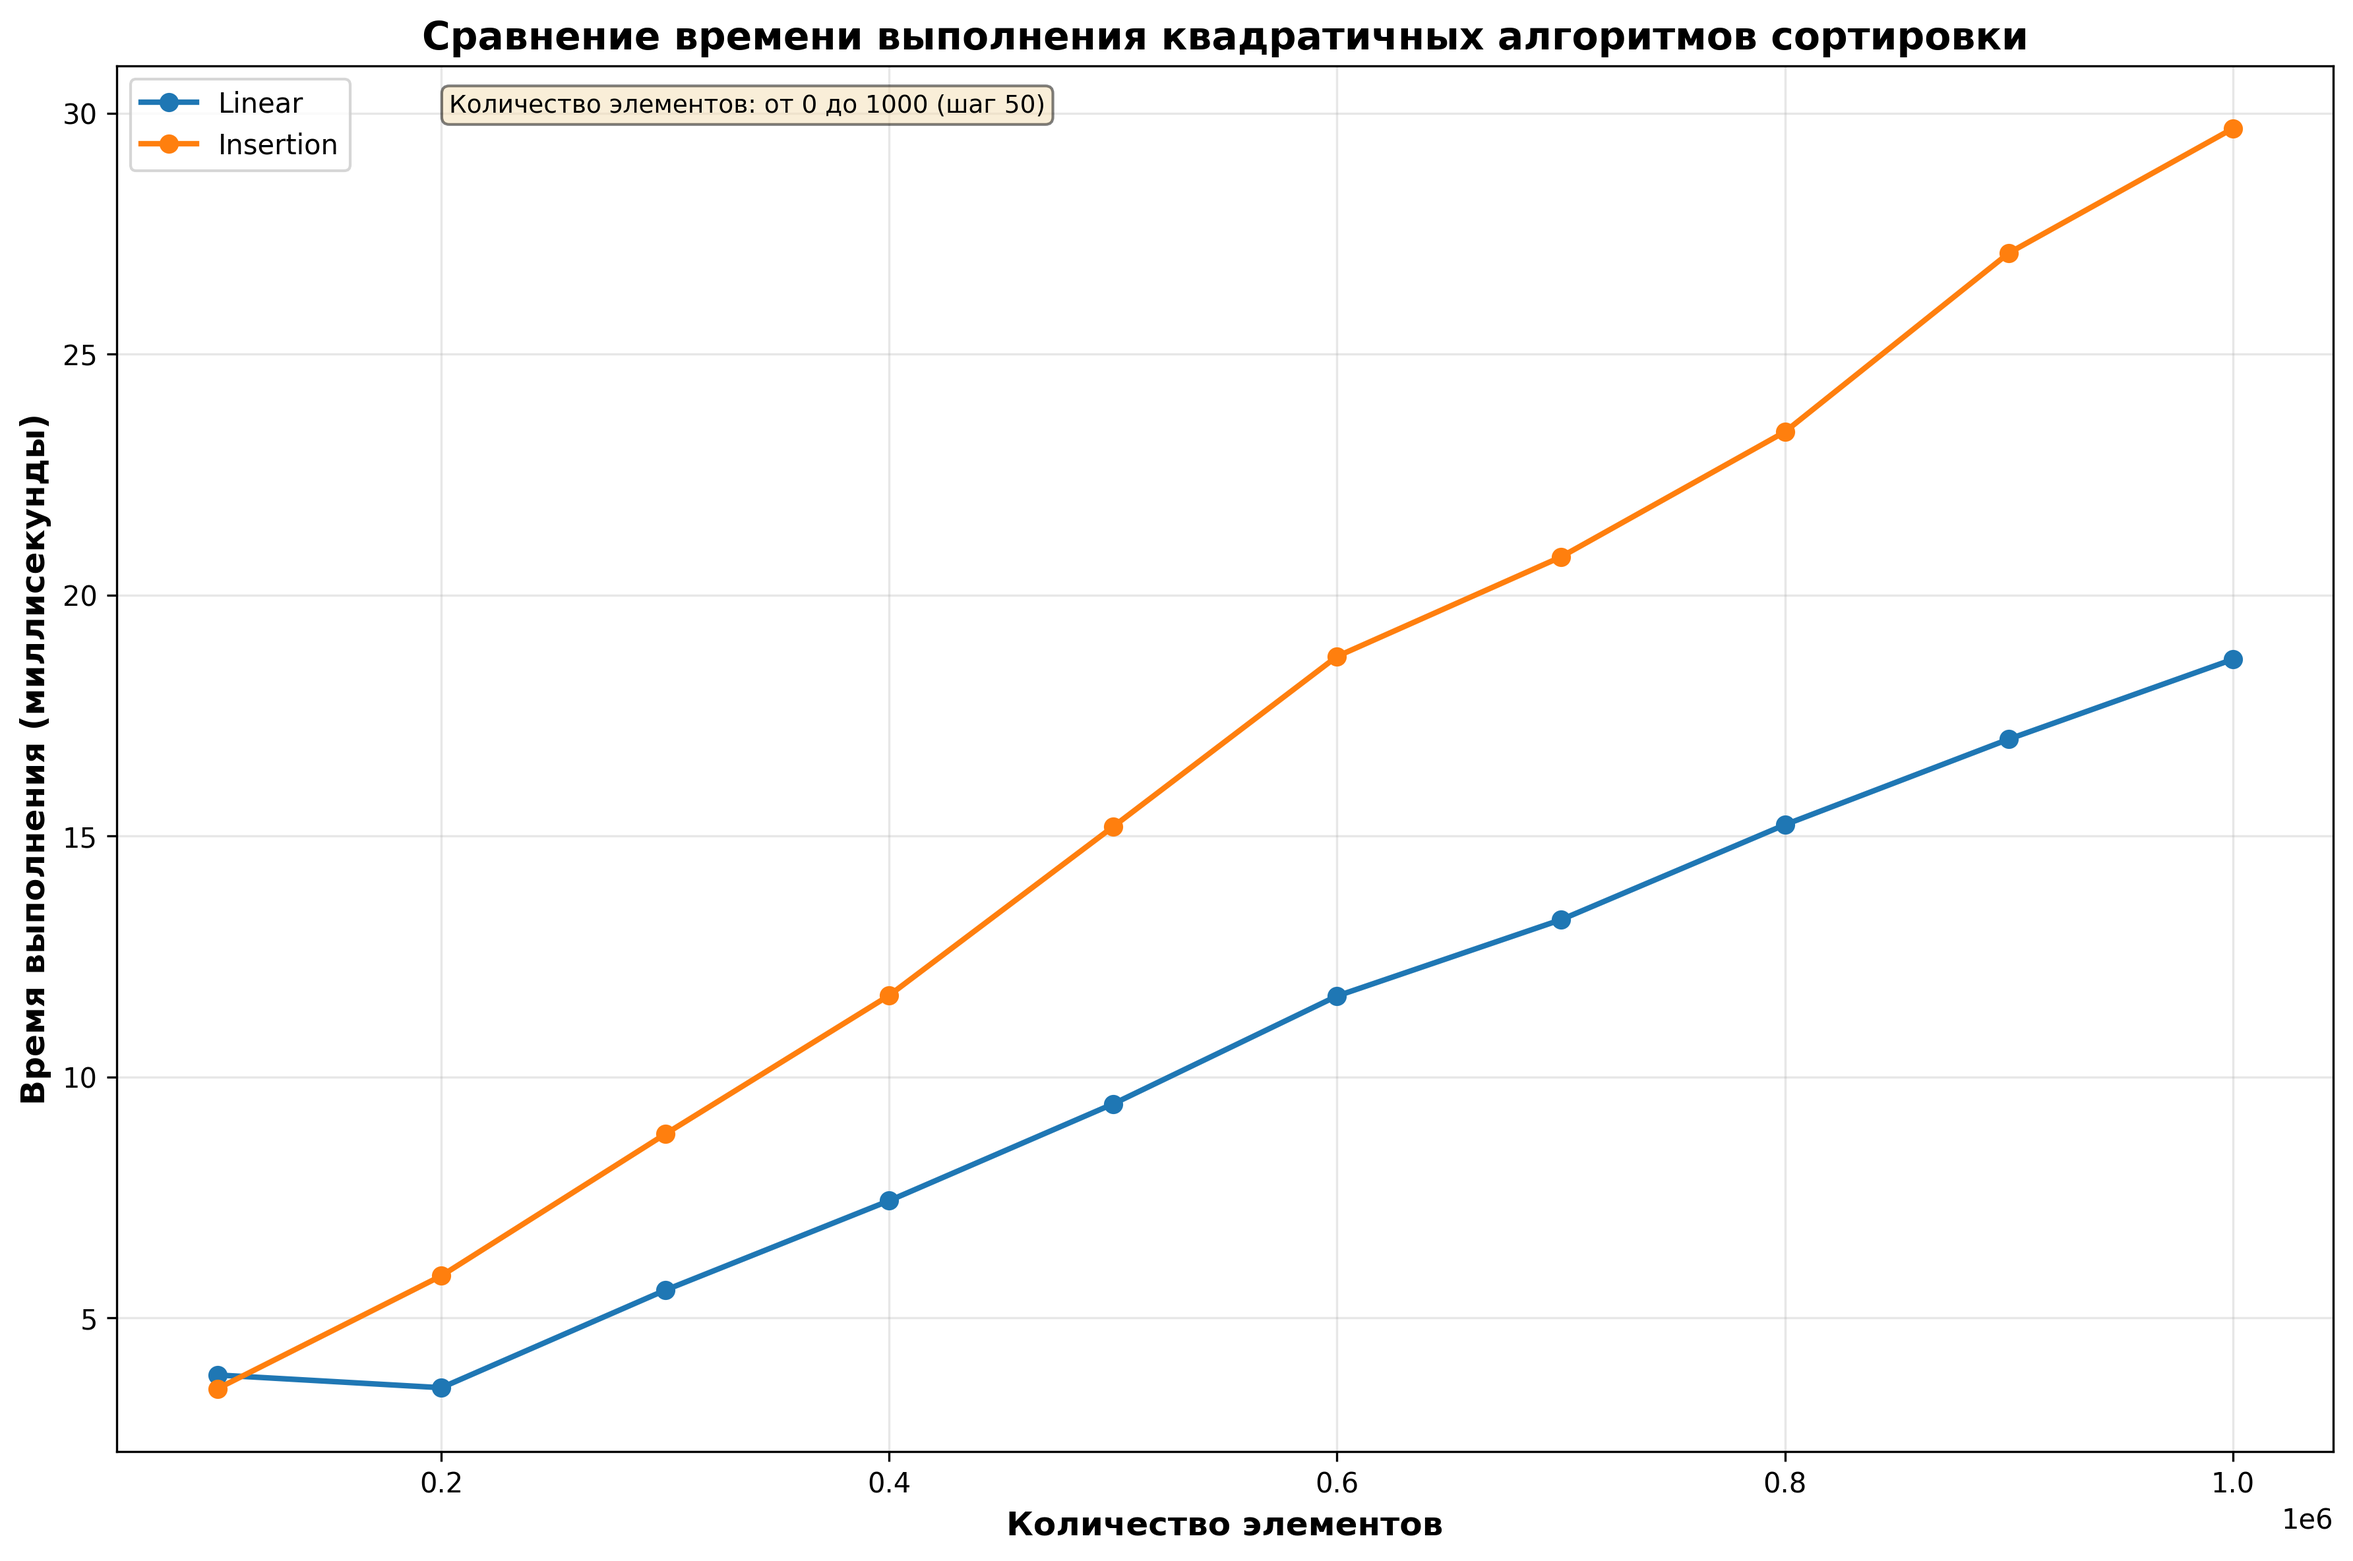
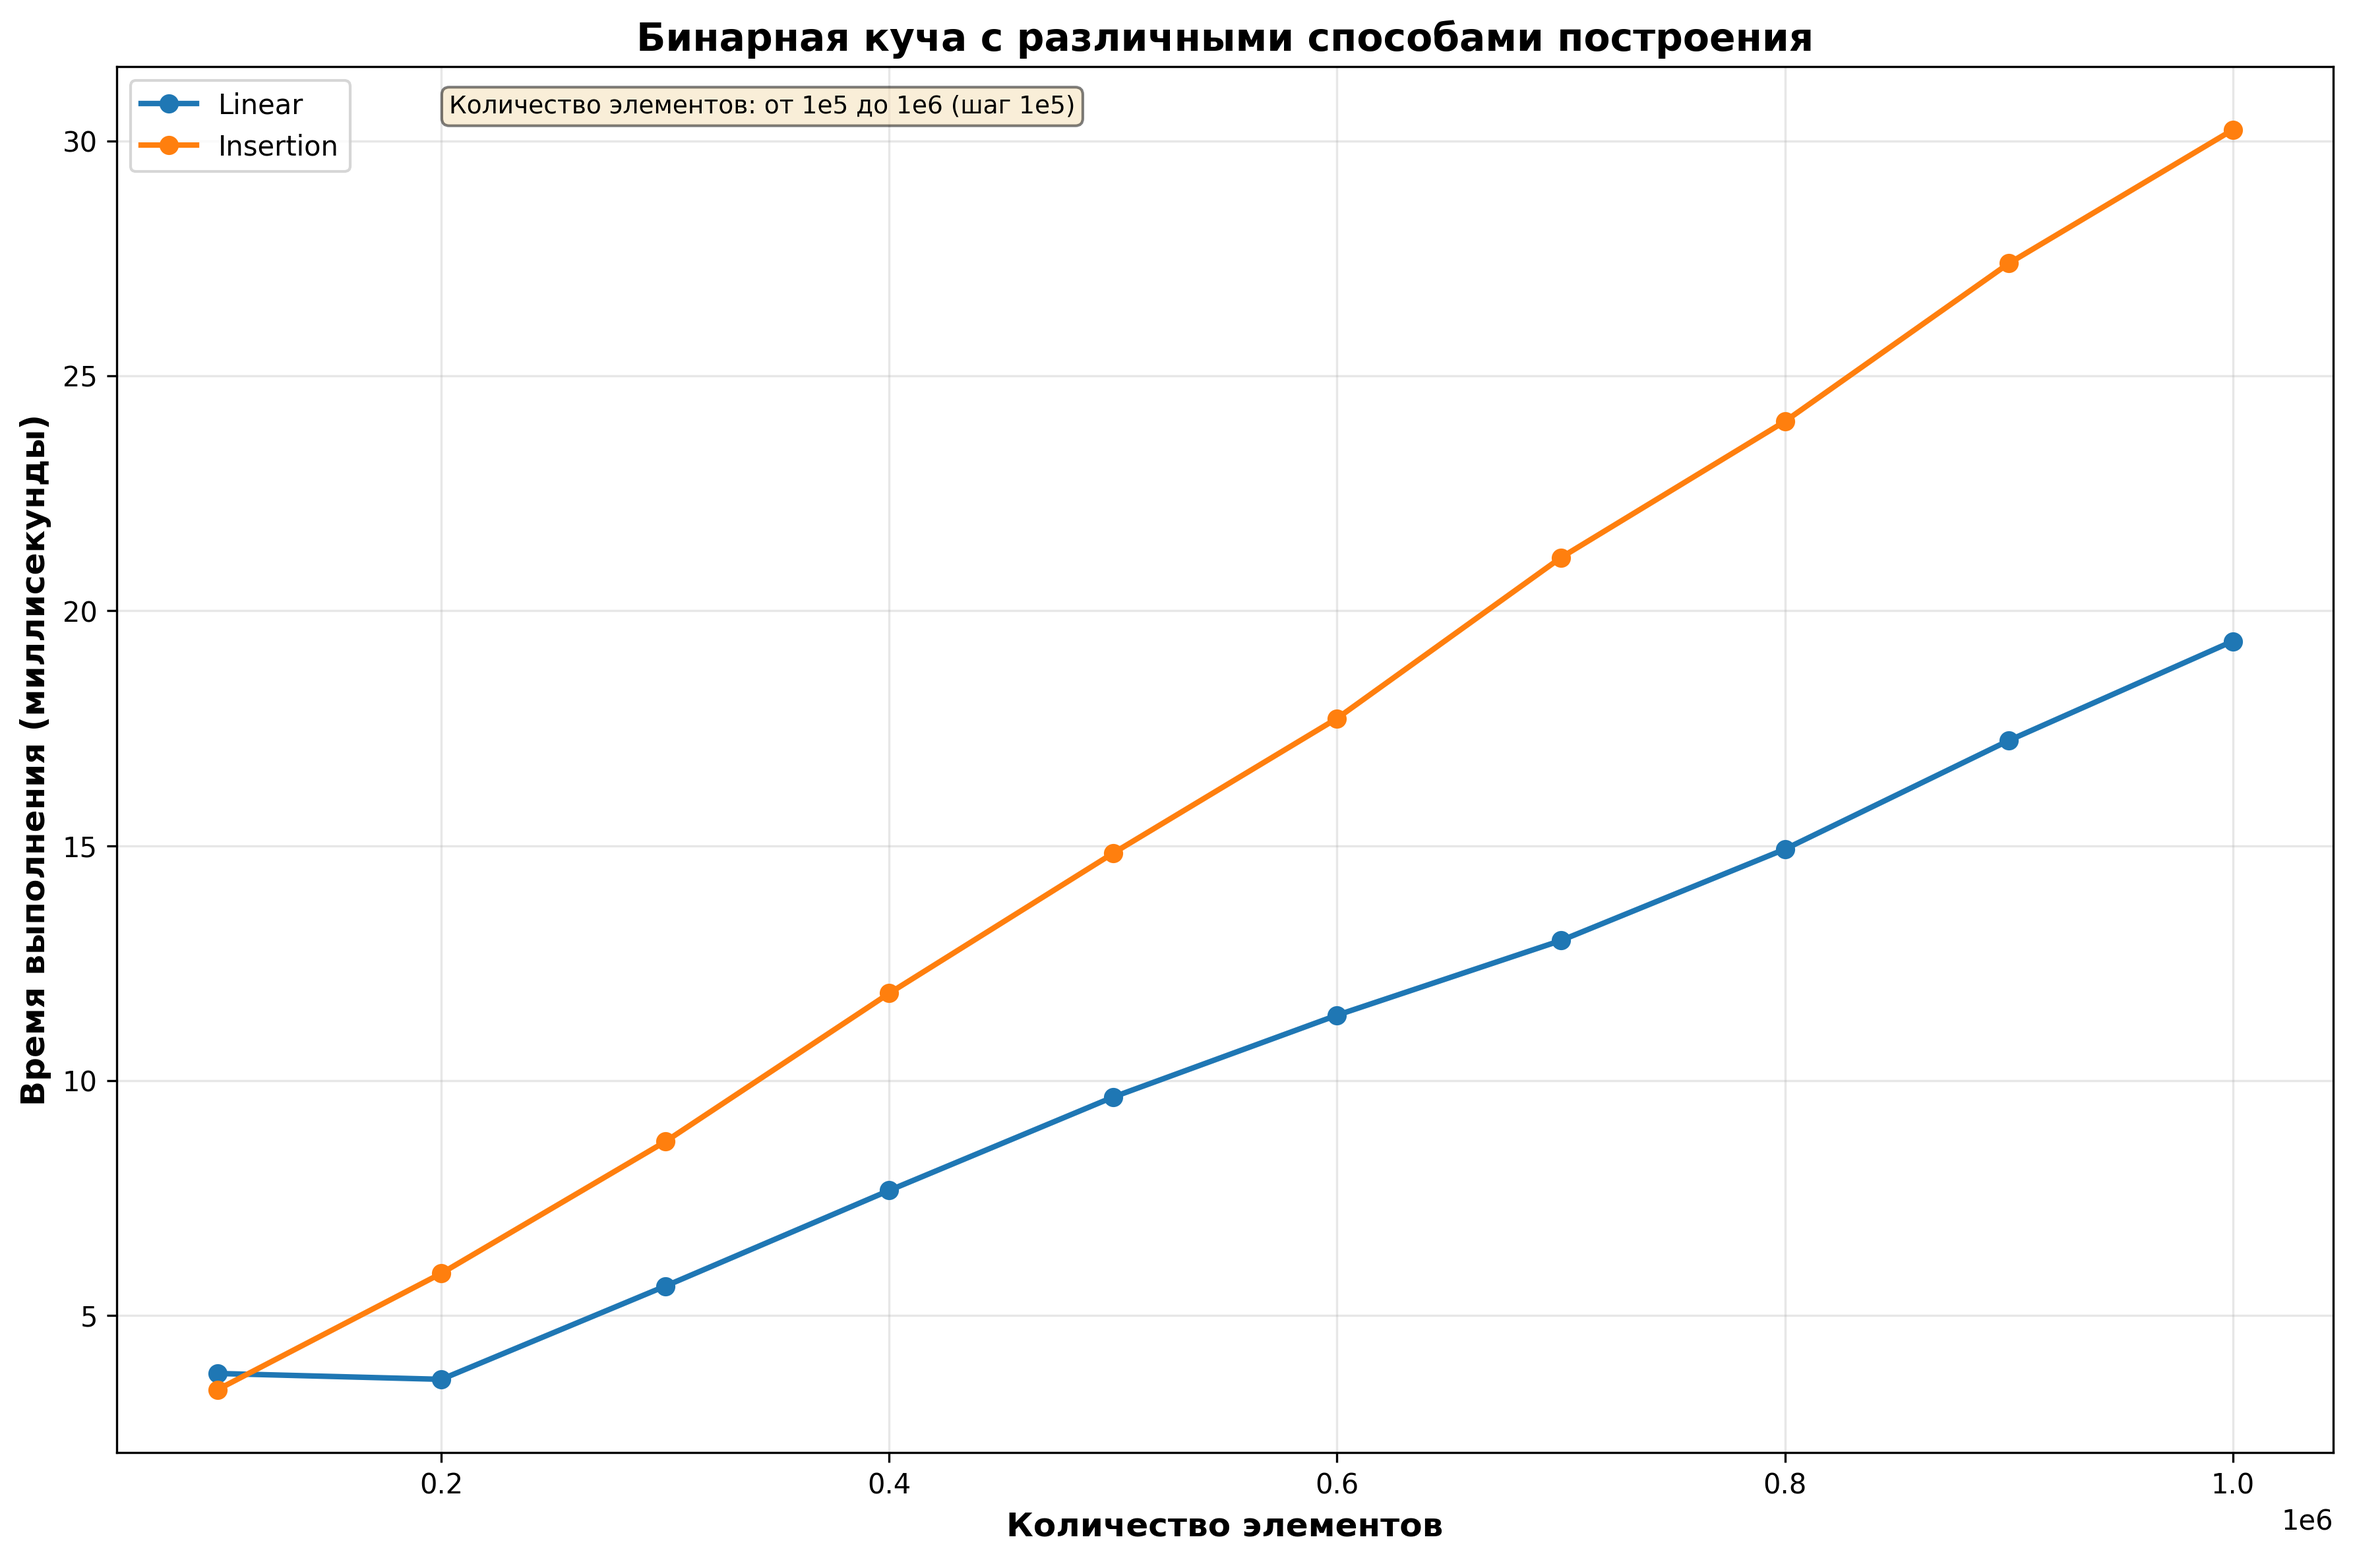
Change binary part

diff --git a/binary-plot-gen.py b/binary-plot-gen.py
@@ -38,12 +38,12 @@ def plot_sorting_times():
 
     plt.xlabel('Количество элементов', fontsize=12, fontweight='bold')
     plt.ylabel('Время выполнения (миллисекунды)', fontsize=12, fontweight='bold')
-    plt.title('Сравнение времени выполнения квадратичных алгоритмов сортировки', 
+    plt.title('Бинарная куча с различными способами построения', 
               fontsize=14, fontweight='bold')
     plt.grid(True, alpha=0.3)
     plt.legend(loc='upper left', fontsize=10)
     
-    plt.text(0.15, 0.98, 'Количество элементов: от 0 до 1000 (шаг 50)',
+    plt.text(0.15, 0.98, 'Количество элементов: от 1e5 до 1e6 (шаг 1e5)',
              transform=plt.gca().transAxes, fontsize=9, 
              verticalalignment='top', bbox=dict(boxstyle='round', facecolor='wheat', alpha=0.5))
     
